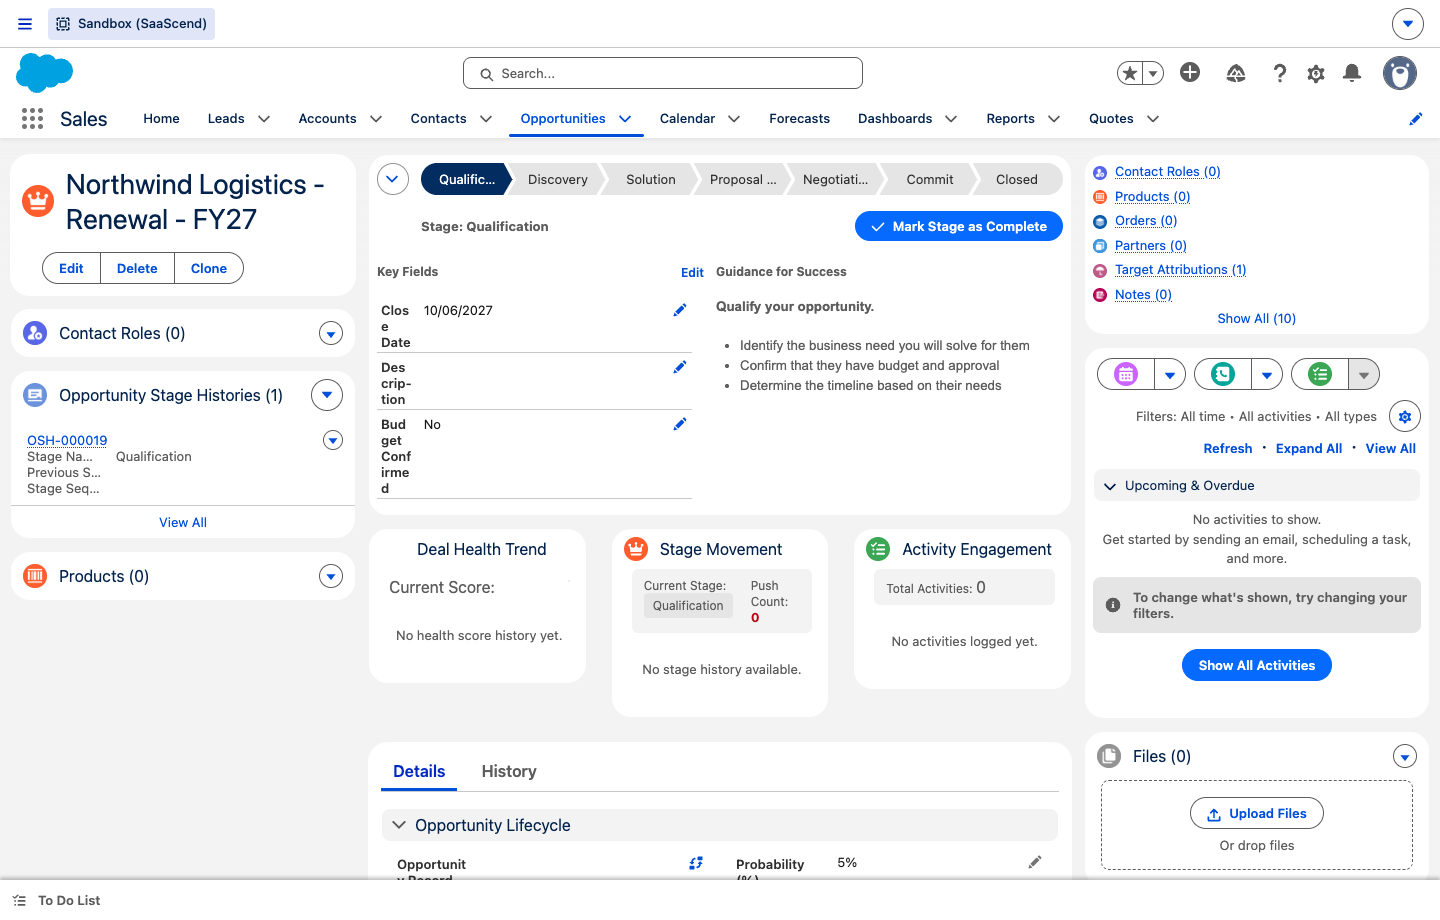
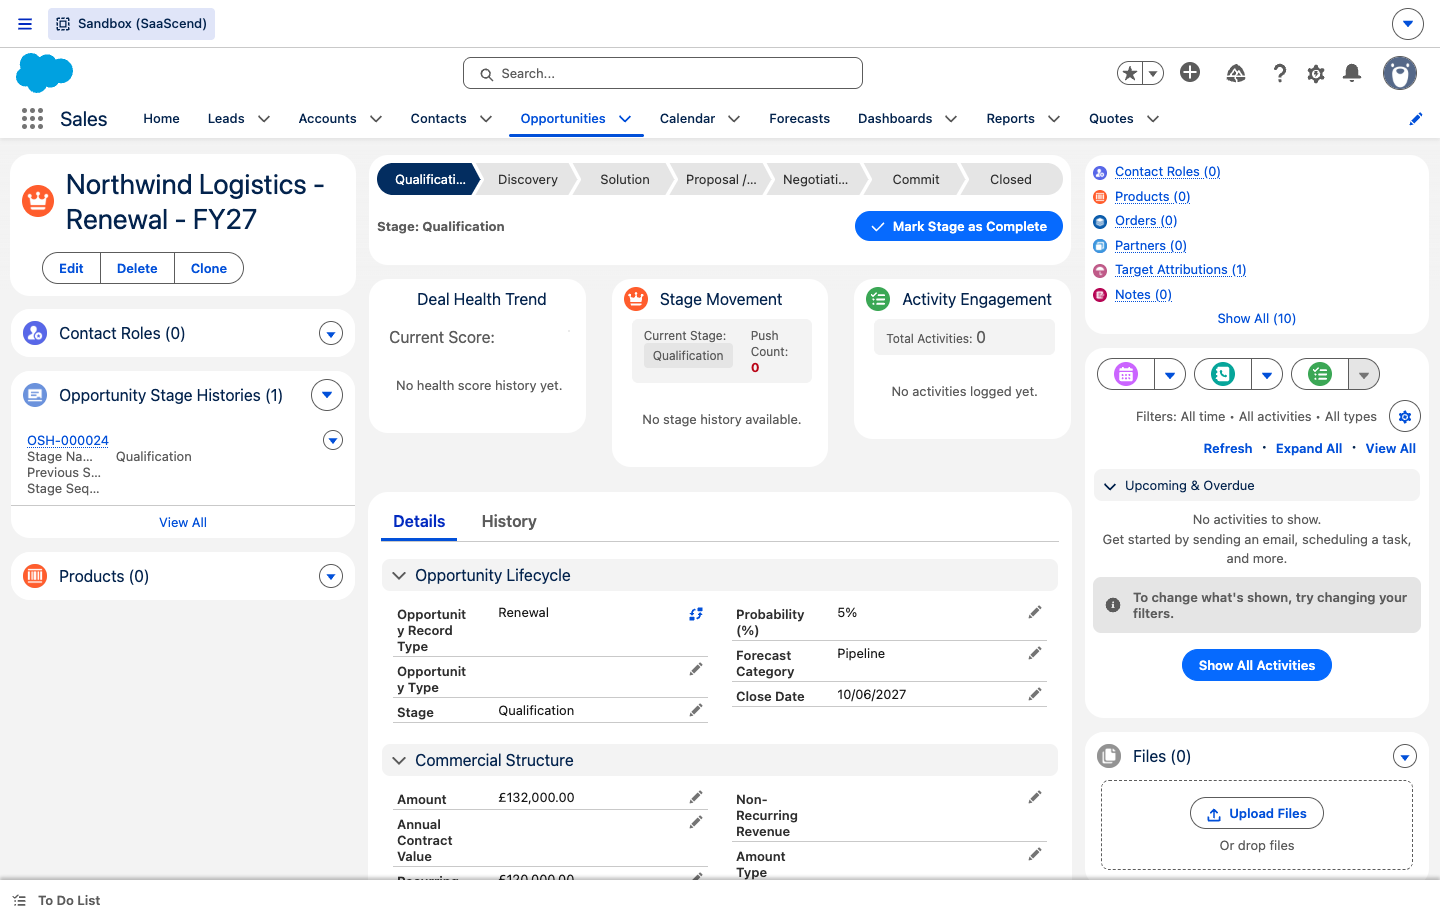
Fix: real ICP/BANT lead screenshot; auto-generated renewal + corrected commission (£14.4k)

diff --git a/index.html b/index.html
@@ -330,8 +330,12 @@
       </div>
     </div>
     <div>
+      <figure>
+        <div class="shot" data-zoom="assets/02-lead-icp-bant.png"><img src="assets/02-lead-icp-bant.png" alt="Lead ICP Grading and BANT Qualification sections"></div>
+        <figcaption>The <b>ICP Grading</b> &amp; <b>BANT Qualification</b> sections on Dana’s lead — every value below was written by the scoring automations, not typed by hand.</figcaption>
+      </figure>
       <div class="card">
-        <div class="lbl sys" style="margin-bottom:16px"><span class="dot">📊</span>What the scoring produced for Dana</div>
+        <div class="lbl sys" style="margin-bottom:16px"><span class="dot">📊</span>At a glance</div>
         <div class="scorecards">
           <div class="score a"><div class="k">ICP Grade</div><div class="v">A</div><div class="s">Hot ICP</div></div>
           <div class="score blue"><div class="k">BANT</div><div class="v">100</div><div class="s">Fully Qualified</div></div>
@@ -445,7 +449,7 @@
         <div class="lbl sys"><span class="dot">💷</span>What the win generated automatically</div>
         <div class="scorecards">
           <div class="score a"><div class="k">Won ARR</div><div class="v">£120k</div><div class="s">MRR £10k · 12-mo term</div></div>
-          <div class="score amber"><div class="k">Commission</div><div class="v">£8.9k</div><div class="s">Tiered · Pending</div></div>
+          <div class="score amber"><div class="k">Commission</div><div class="v">£14.4k</div><div class="s">12% tier · Pending</div></div>
           <div class="score cyan"><div class="k">Account roll-up</div><div class="v">+1</div><div class="s">Won deal counted</div></div>
         </div>
       </div>
@@ -574,7 +578,7 @@
     <div>
       <figure>
         <div class="shot" data-zoom="assets/07-renewal.png"><img src="assets/07-renewal.png" alt="Renewal opportunity"></div>
-        <figcaption>“Northwind Logistics – Renewal – FY27” at £132k — queued and ready, with a renewal-QBR next step.</figcaption>
+        <figcaption>“Northwind Logistics – Renewal – FY27” at £132k — <b>auto-generated the moment the deal was won</b>, dated a full term out and ready to work.</figcaption>
       </figure>
       <div class="callout">🔎 <b>Look for:</b> the Renewal opp’s <b>Deal Type = Renewal</b> and a close date a
         full term out — your future pipeline, generated the day you won.</div>